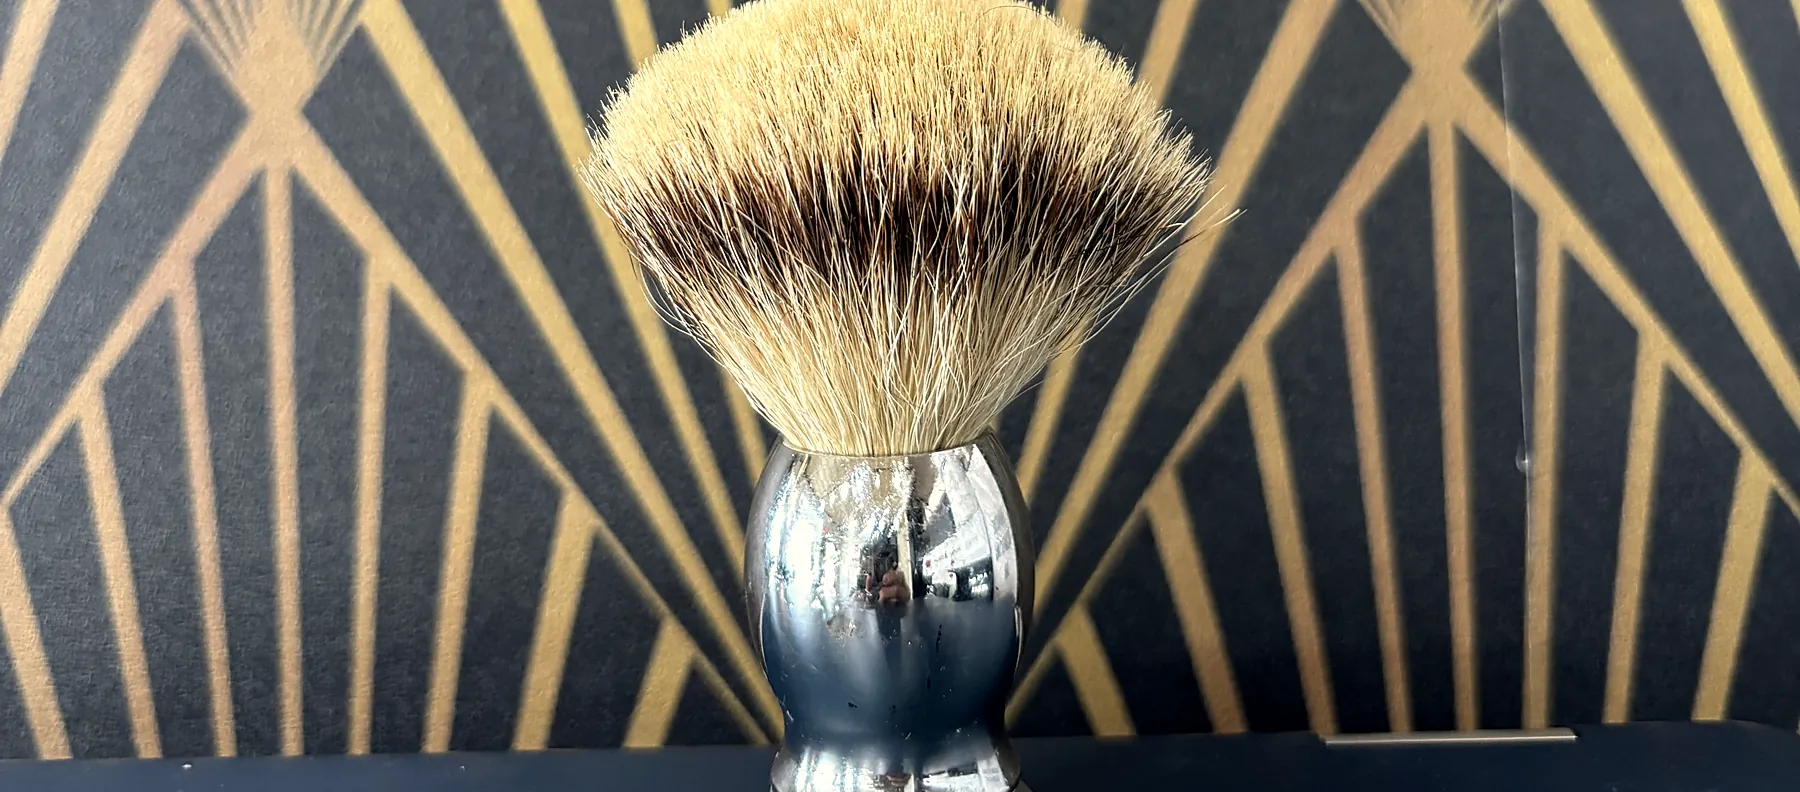
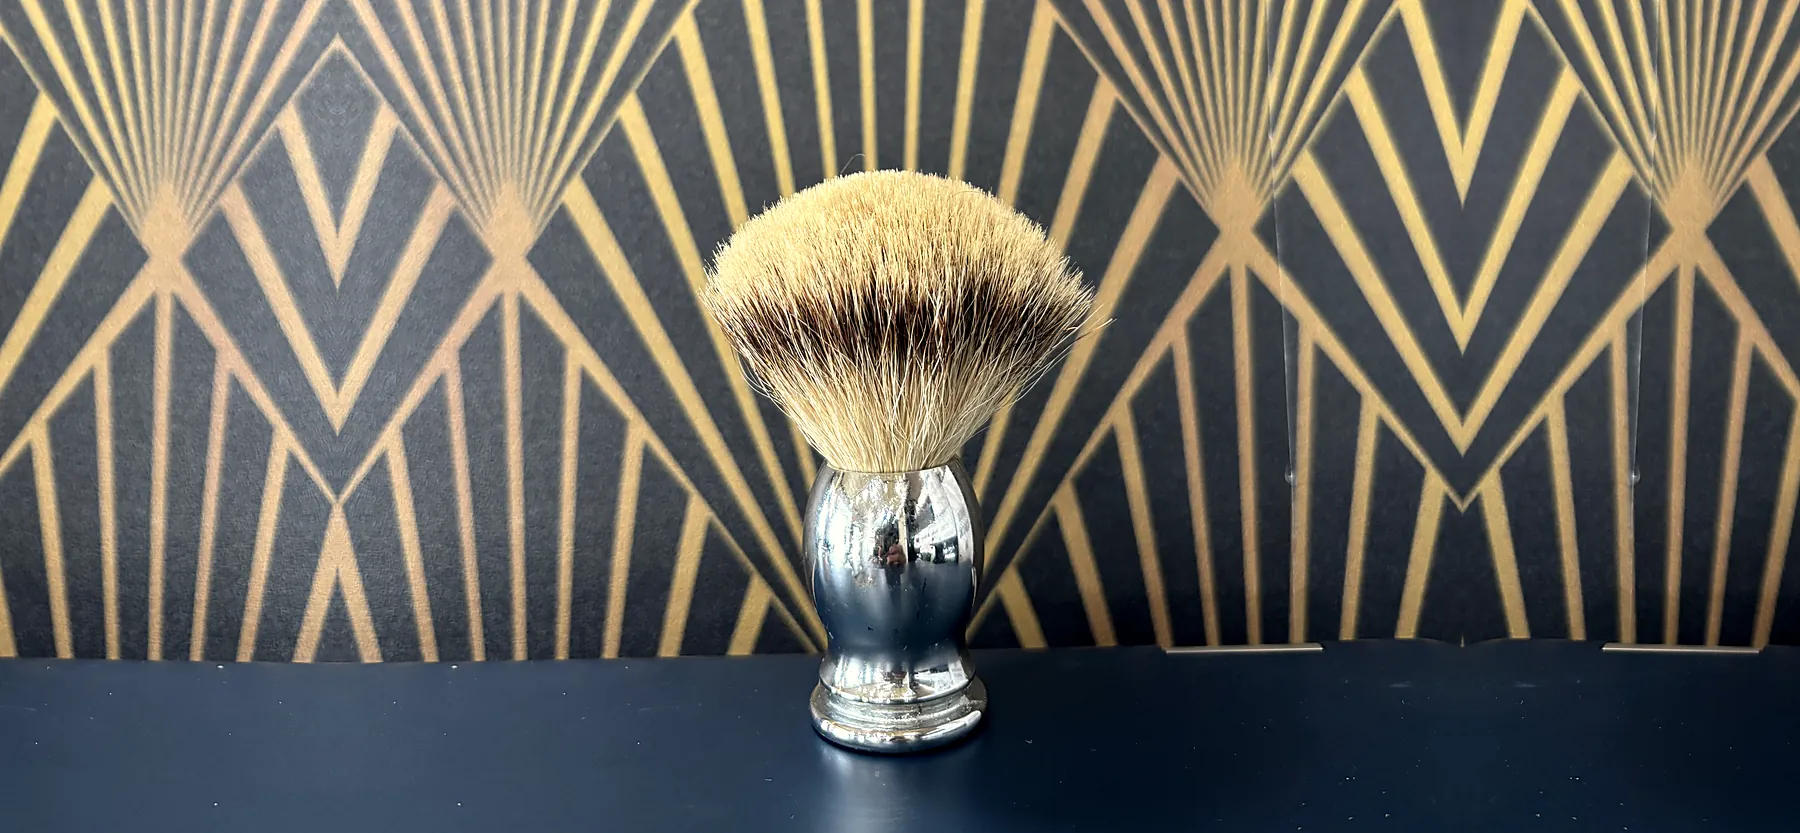
Hero: the door first; whole brush and both bottles on a wide screen
The grass-and-door photograph opens the rotation. The hero frame is held
to about 2.3 to 1 on wide screens (44vw, capped at 58rem) so tall
subjects are not reduced to a band through their middles. The brush cut
carries the wallpaper mirrored out to either side, and the tonics cut
the window casing mirrored to the right, so each stays whole in frame.

Claude-Session: https://claude.ai/code/session_01LbNnvFfHUj9cRbAtqgWB8F

diff --git a/components/sections.tsx b/components/sections.tsx
@@ -18,21 +18,23 @@ import { HeroSlides } from "./hero-slides";
 export function Hero() {
   return (
     <section id="top" className="relative overflow-hidden border-b border-hair">
-      {/* The shop, one photograph at a time, edge to edge: the room, the
-          badger brush, the clipper patent, the tonics in the window, the door
-          behind the dried grass, the print of the building. Each is cut once
+      {/* The shop, one photograph at a time, edge to edge: the door behind
+          the dried grass, the room, the badger brush, the clipper patent, the
+          tonics in the window, the print of the building. Each is cut once
           for a phone and once for a wide screen, graded a touch warm so six
-          phone photographs read as one set.
+          phone photographs read as one set. The frame is never wider than
+          about 2.3 to 1, so a wide screen shows the whole brush and both
+          bottles rather than a band through their middles.
           Grain and a soft vignette over them. No words on it. */}
-      <div className="relative h-[62vh] min-h-[22rem] max-h-[46rem]">
+      <div className="relative h-[max(62vh,44vw)] min-h-[22rem] max-h-[58rem]">
         <div className="absolute inset-0" aria-hidden="true">
           <HeroSlides
             slides={[
-              { alt: "The room", tall: { src: "/media/room-tall.webp", width: 1000, height: 1348 }, wide: { src: "/media/room-wide.webp", width: 1800, height: 993 } },
-              { alt: "A badger brush against the wallpaper", tall: { src: "/media/brush-tall.webp", width: 1000, height: 1334 }, wide: { src: "/media/brush-wide.webp", width: 1800, height: 792 } },
-              { alt: "The 1894 clipper patent, framed by the mirror", tall: { src: "/media/patent-tall.webp", width: 1000, height: 1250 }, wide: { src: "/media/patent-wide.webp", width: 1800, height: 1104 } },
-              { alt: "Tonics in the front window", tall: { src: "/media/tonics-tall.webp", width: 1000, height: 1240 }, wide: { src: "/media/tonics-wide.webp", width: 1800, height: 1258 } },
               { alt: "The painted door behind the dried grass", tall: { src: "/media/grass-tall.webp", width: 1000, height: 1013 }, wide: { src: "/media/grass-wide.webp", width: 1800, height: 1104 } },
+              { alt: "The room", tall: { src: "/media/room-tall.webp", width: 1000, height: 1348 }, wide: { src: "/media/room-wide.webp", width: 1800, height: 993 } },
+              { alt: "A badger brush against the wallpaper", tall: { src: "/media/brush-tall.webp", width: 1000, height: 1334 }, wide: { src: "/media/brush-wide.webp", width: 1800, height: 833 } },
+              { alt: "The 1894 clipper patent, framed by the mirror", tall: { src: "/media/patent-tall.webp", width: 1000, height: 1250 }, wide: { src: "/media/patent-wide.webp", width: 1800, height: 1104 } },
+              { alt: "Tonics in the front window", tall: { src: "/media/tonics-tall.webp", width: 1000, height: 1240 }, wide: { src: "/media/tonics-wide.webp", width: 1800, height: 1169 } },
               { alt: "A print of the building as it stood", tall: { src: "/media/print-tall.webp", width: 1000, height: 1147 }, wide: { src: "/media/print-wide.webp", width: 1800, height: 1008 } },
             ]}
           />

diff --git a/README.md b/README.md
@@ -104,7 +104,7 @@ claim about his pricing we cannot support.
   flanked the door menu and the booking widget; they layered up and came out (git history has
   them). Hero: six photographs in rotation, edge to edge (`components/hero-slides.tsx`, six seconds
   each, each cut once for a phone and once for a wide screen and graded a touch warm, with film grain
-  and a vignette over them; no rotation under `prefers-reduced-motion`), no words
+  and a vignette over them; no rotation under `prefers-reduced-motion`; the frame is held to about 2.3 to 1 on wide screens so tall subjects stay whole), no words
   on it; a short Welcome section sits under it. The Shop: John.
 - **No em dashes in anything the page prints.** Commas, colons and full stops instead.
 - **Photographs are bled, not framed.** Nothing sits in a bordered box with a caption. The pole
@@ -116,11 +116,11 @@ Everything in `public/media/` is from the shop.
 
 | File | What it is |
 |---|---|
-| `room-wide.webp`, `room-tall.webp` | The room from the doorway, cut for a wide screen and for a phone — first in the hero |
-| `brush-wide.webp`, `brush-tall.webp` | The badger brush on the counter against the sunburst wallpaper — second in the hero |
-| `patent-wide.webp`, `patent-tall.webp` | The framed 1894 Priest clipper patent beside the mirror sconce — third in the hero |
-| `tonics-wide.webp`, `tonics-tall.webp` | The tonics on the front sill, flowers behind — fourth in the hero |
-| `grass-wide.webp`, `grass-tall.webp` | The painted door seen past a vase of dried grass, the head of the sign sharp — fifth in the hero |
+| `grass-wide.webp`, `grass-tall.webp` | The painted door seen past a vase of dried grass, the head of the sign sharp — first in the hero |
+| `room-wide.webp`, `room-tall.webp` | The room from the doorway, cut for a wide screen and for a phone — second in the hero |
+| `brush-wide.webp`, `brush-tall.webp` | The badger brush on the counter against the sunburst wallpaper, the wallpaper mirrored out to either side on the wide cut so the whole brush stays in frame — third in the hero |
+| `patent-wide.webp`, `patent-tall.webp` | The framed 1894 Priest clipper patent beside the mirror sconce — fourth in the hero |
+| `tonics-wide.webp`, `tonics-tall.webp` | The tonics on the front sill, flowers behind; the wide cut carries the window casing mirrored out to the right so both bottles stay whole — fifth in the hero |
 | `print-wide.webp`, `print-tall.webp` | The framed print of 240 Lancaster as it stood a century ago — sixth in the hero |
 | `pole.webp` | The pole out front, turning — **animated WebP, 226KB**. Was the hero until the room was photographed; kept, not placed |
 | `pole-still.webp` | One frame of it, for `prefers-reduced-motion` — kept with it |
